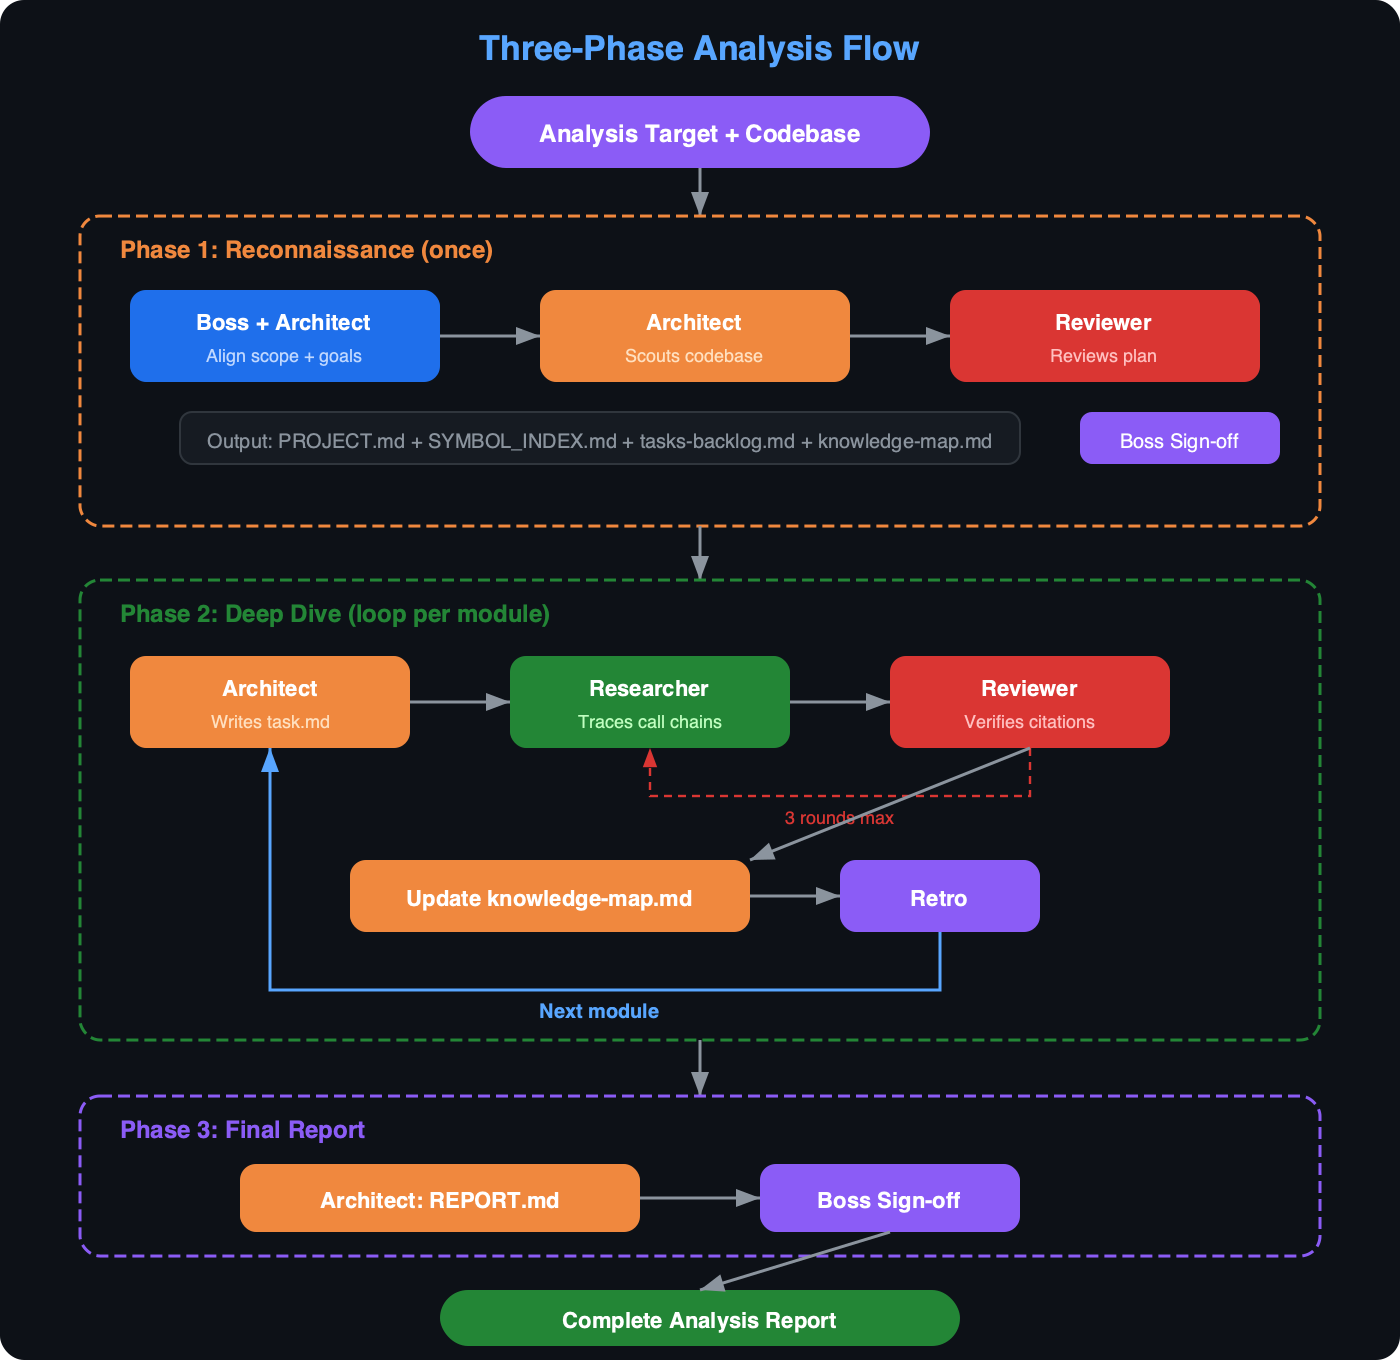
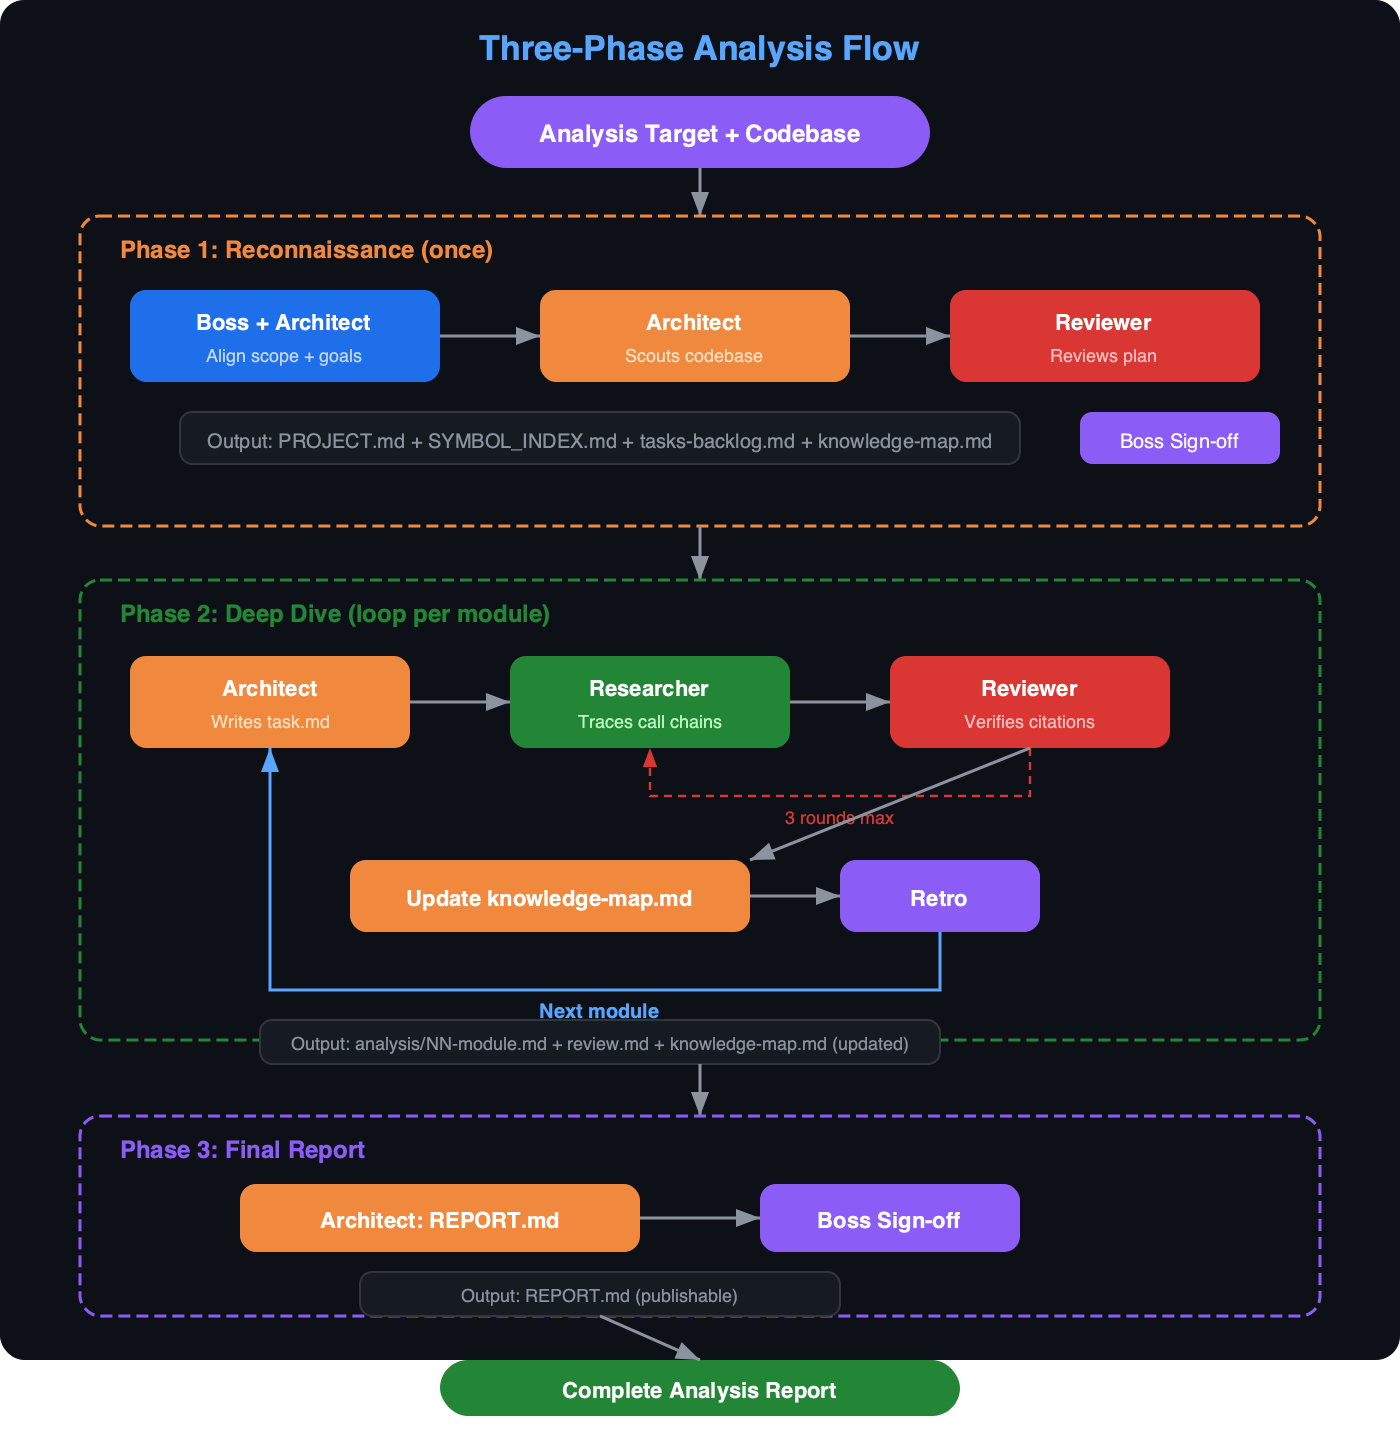
README: use SVG directly for phase diagram, add Phase 2/3 output labels

diff --git a/README.md b/README.md
@@ -164,7 +164,7 @@ source-driven-agent-framework/
 
 ## Three-Phase Workflow
 
-![Three-Phase Analysis Flow](images/phase-diagram.png)
+![Three-Phase Analysis Flow](images/phase-diagram.svg)
 
 | Phase | Input | Output | Gate |
 |-------|-------|--------|------|
